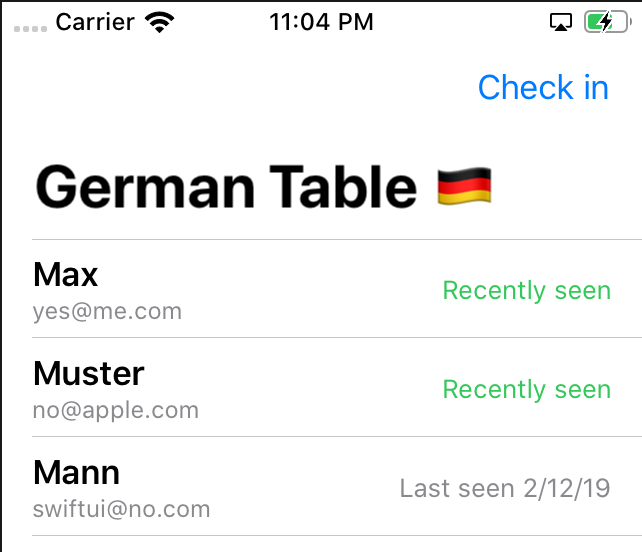
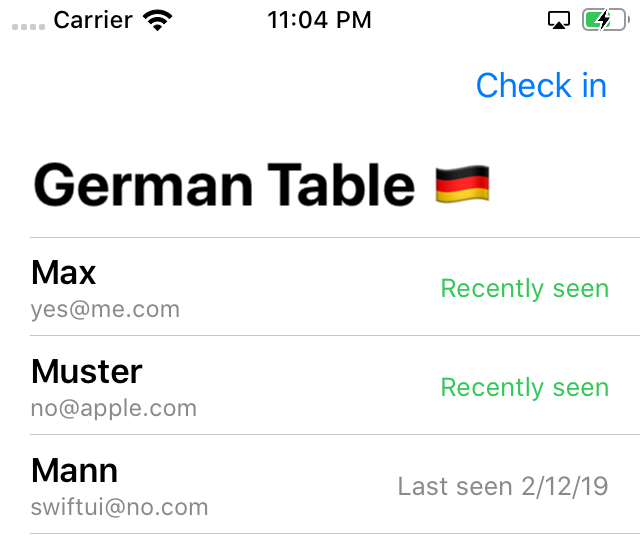
Update README.md

diff --git a/README.md b/README.md
@@ -5,7 +5,7 @@ Check in at the german table
 <img src="https://img.shields.io/badge/swiftUI-beta-blue.svg" alt="SwiftUI Version: Beta" title="SwiftUI"><br/>
 
 ### Demo
-<img src="https://github.com/lukaswuerzburger/germinal/raw/develop/readme-resources/demo.png" alt="Germinal UI" title="Germinal UI"><br/>
+<img src="https://github.com/lukaswuerzburger/germinal/raw/develop/readme-resources/demo.png" alt="Germinal UI" title="Germinal UI" width="320"><br/>
 
 ### Contribution
 ... is very welcome!
